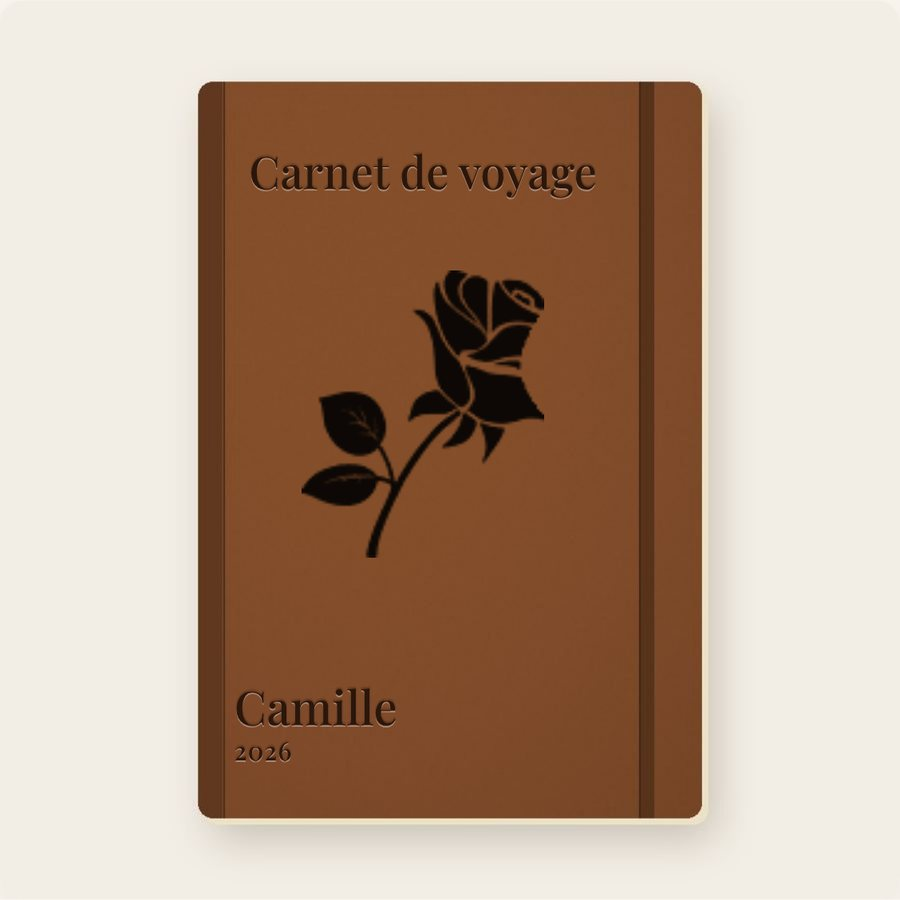
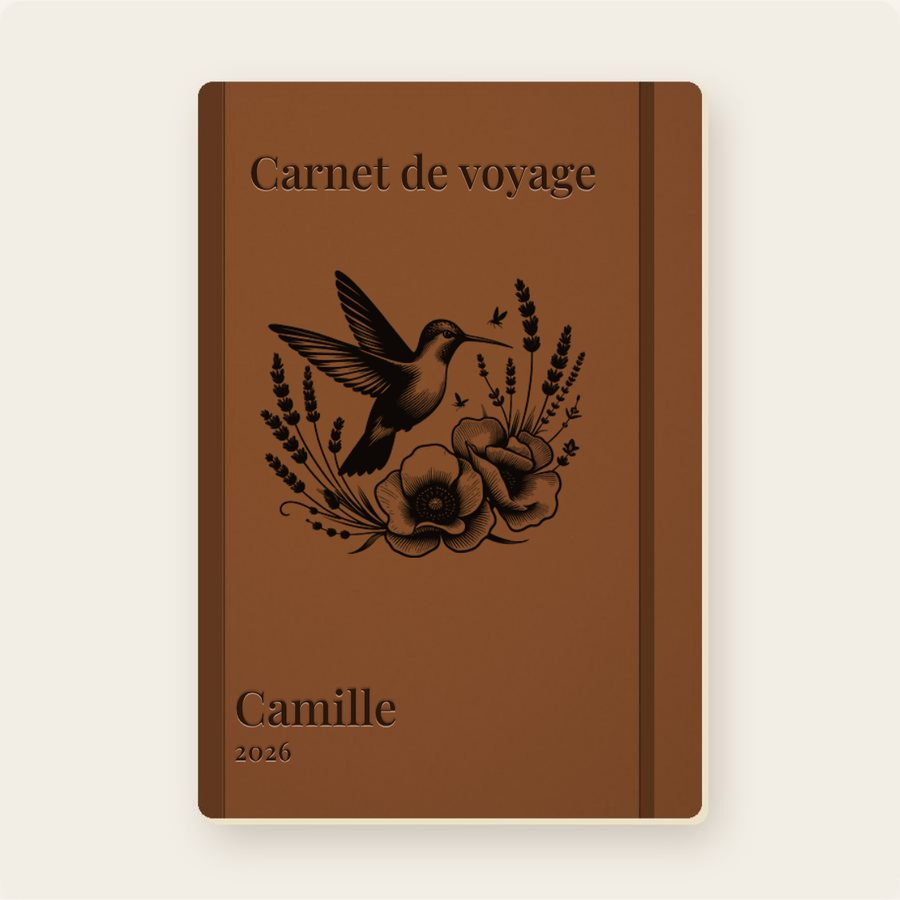
Exemples de gravure : la rose n° 12 remplacée par les dessins 8, 62 et 64 (marque-pages et carnet)
Claude-Session: https://claude.ai/code/session_013Nt78VnTBT8S9aqZe85f4z

Changed region(s): [[0.28, 0.28, 0.6533, 0.6222]]

diff --git a/CLAUDE.md b/CLAUDE.md
@@ -155,6 +155,9 @@
     passage : les vignettes des boîtes portent `.mq-thbox[data-n]` (plus d'index fixe dans la galerie), et `mqApercu` RÉAJUSTE la
     taille des textes quand la police arrive après la mesure (« Camille » sortait coupé). Vérifié 390 / 1280 : 17 / 12 vignettes,
     exemple = photo fixe, boîte du coffret retrouvée, 0 erreur.
+    · **v15 / v14 (+ carnet v6) — « enlève la rose, remplace par une autre image plus jolie, juste sur les aperçus, pas dans le
+      fichier »** : la rose n° 12 reste dans les planches, mais plus aucun exemple ne l'utilise → papillons fleuris n° 8 (modèle 1,
+      Caramel), plume aux papillons n° 62 (modèle 2, Blond clair), colibri aux coquelicots n° 64 (carnet, « Carnet de voyage »).
 - **Modèle 2 « ajouré, oiseau et magnolia »** : https://claude.ai/artifact/CKqzt46EGgVntsypefi1Tv (v3, 23/10 : face gravable, TEXTE seulement) · 4 couleurs · **13,90 €** · texte sur la face **+3 €** (en haut / en bas à la verticale, jamais de dessin : le recto est déjà décoré) · texte au verso **+3 €** · mêmes boîtes.
 - **Modèle 3 « métal, peintures célèbres »** : https://claude.ai/artifact/VaSkxKqaBF6oeRDpQwKcji (v4) · 8 tableaux · **15,90 €**, Papillon en coffret **19,90 €** ·
   **SANS gravure** · mêmes boîtes · fenêtre du coffret = choix des tableaux seulement.
